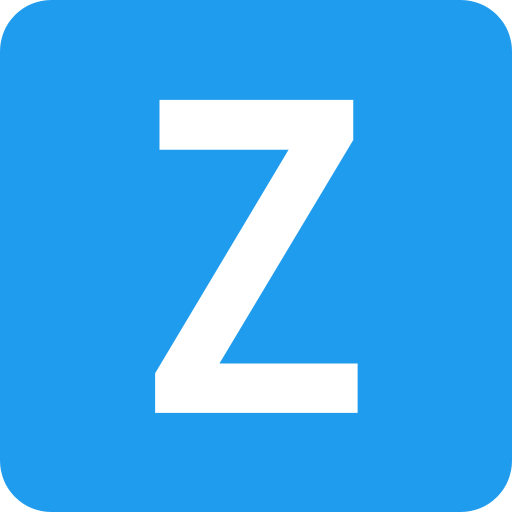
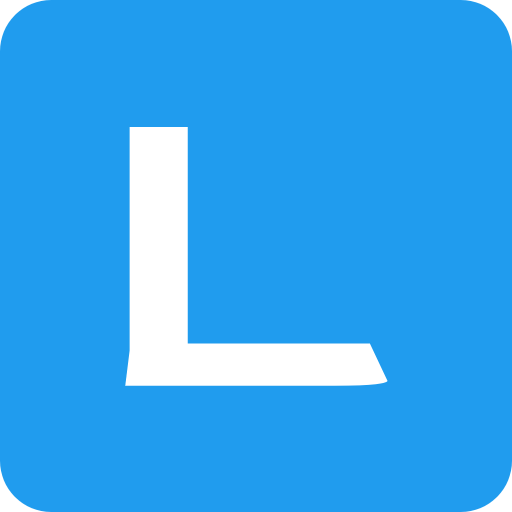
waitlist

Changed region(s): [[0.2188, 0.1875, 0.75, 0.8125]]

diff --git a/src/pages/home/index.jsx b/src/pages/home/index.jsx
@@ -273,12 +273,12 @@ const Home = () => {
                             <header>
                                 <Link to="/">
                                     <span className={styles.logo}>
-                                        Zafique.
+                                        Lovelodge.
                                     </span>
                                 </Link>
                             </header>
                             <span className={styles.coming__soon}>
-                                Coming soon to your city
+                                For Airbnb, Vrbo, and shortlet property owners
                             </span>
                             <h1>
                                 You host, we <span>clean</span>
@@ -287,8 +287,8 @@ const Home = () => {
                                 We connect Airbnb hosts and shortlet property owners with trusted, on-demand cleaners — so every guest walks into perfection.
                             </p>
                             <div className={styles.join__waitlist}>
-                                <Link to="https://tally.so/embed/mDyd2N?alignLeft=1&hideTitle=1&transparentBackground=1&dynamicHeight=1" className={styles.join__waitlist__btn}>
-                                    Join the waitlist
+                                <Link to="https://forms.gle/uDcxwLRjBbYWC9S5A" className={styles.join__waitlist__btn}>
+                                    Make your first booking
                                 </Link>
                             </div>
                             <div className={styles.waitlist__progress}>
@@ -297,7 +297,7 @@ const Home = () => {
                                         <div className={styles.waitlist__progress__bar__fill}></div>
                                     </div>
                                     <span className={styles.waitlist__progress__text}>
-                                        100 hosts have joined the waitlist
+                                        100 hosts have made the switch
                                     </span>
                                 </div>
                             </div>

diff --git a/index.html b/index.html
@@ -12,7 +12,7 @@
 @import url('https://fonts.googleapis.com/css2?family=Inter:ital,opsz,wght@0,14..32,100..900;1,14..32,100..900&display=swap');
 </style>
     <title>
-      Zafique - Professional cleaners for your shortlets and Airbnbs
+      Lovelogde - Professional cleaners for Airbnb and short-term rentals
     </title>
   </head>
   <body>
